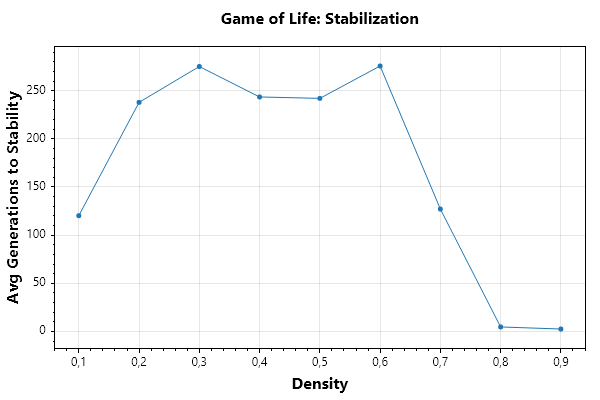
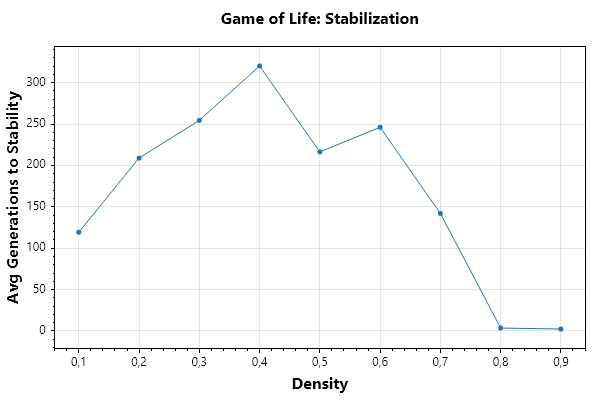
b8 Копейкин Иван

diff --git a/Life/Program.cs b/Life/Program.cs
@@ -247,29 +247,29 @@ namespace cli_life
 public static class StabilityAnalyzer
 {
     public static int GenerationsToStability(Board board, int maxGen = 500, int stableWindow = 10)
+{
+    int prevCount = board.CountAlive();
+    int stableFor = 0;
+
+    for (int gen = 1; gen <= maxGen; gen++)
     {
-        int prevCount = board.CountAlive();
-        int stableFor = 0;
+        board.Advance();
+        int count = board.CountAlive();
 
-        for (int gen = 1; gen <= maxGen; gen++)
+        if (count == prevCount)
         {
-            board.Advance();
-            int count = board.CountAlive();
-
-            if (count == prevCount)
-            {
-                stableFor++;
-                if (stableFor >= stableWindow)
-                    return gen - stableWindow + 1;
-            }
-            else
-            {
-                stableFor = 0;
-                prevCount = count;
-            }
+            stableFor++;
+            if (stableFor >= stableWindow)
+                return gen - stableWindow + 1;
         }
-        return -1;
+        else
+        {
+            stableFor = 0;
+            prevCount = count;
+        }
     }
+    return -1;
+}
 
     public static Dictionary<double, double> RunExperiment(
         int width, int height, int cellSize,

diff --git a/Life.Tests/UnitTest1.cs b/Life.Tests/UnitTest1.cs
@@ -128,7 +128,7 @@ namespace Life.Tests
         [Fact]
         public void Board_GetComponents_ToroidalConnectivity()
         {
-            var board = new Board(5, 5, 1);
+            var board = new Board(5, 5, 1, 0.0);
             board.Cells[0, 0].IsAlive = true;
             board.Cells[4, 4].IsAlive = true;
             var components = board.GetComponents();
